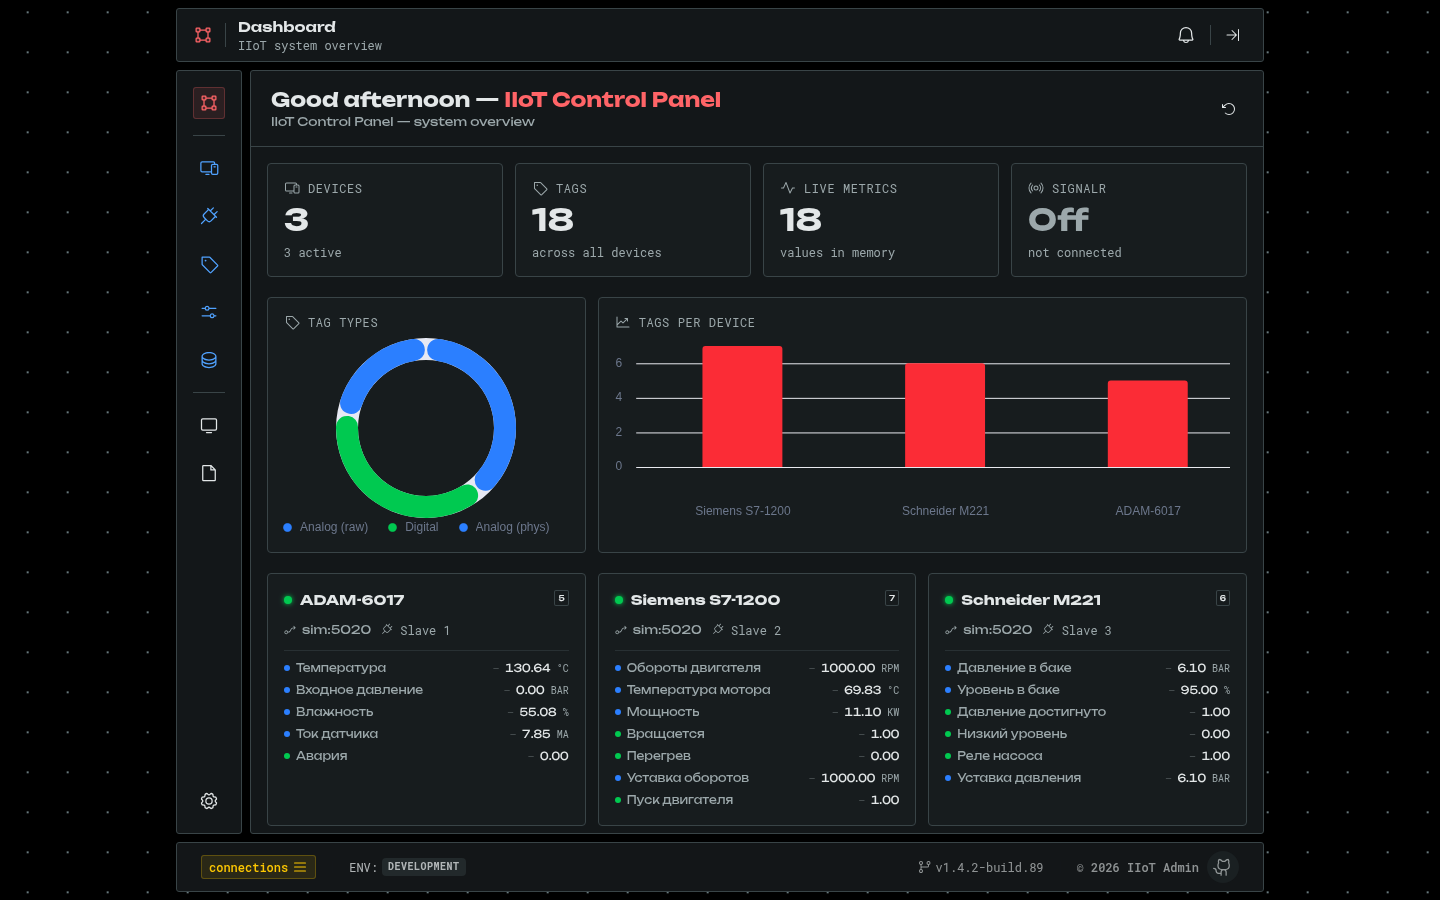
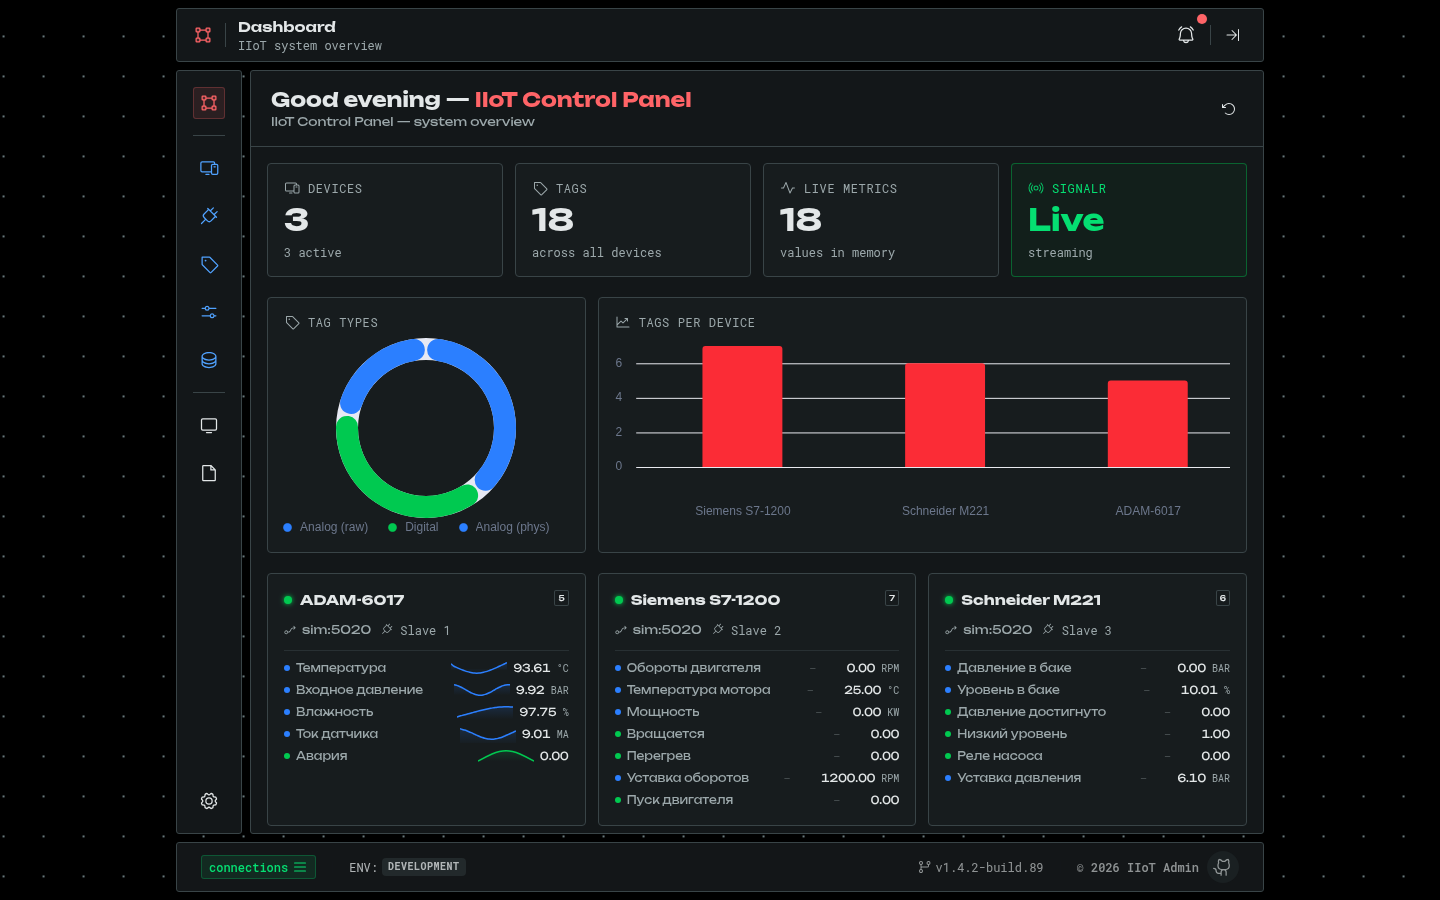
fix(dashboard): keep tag sparklines inside their column
Sparkline root had w-full merged with w-14 from the call site; inside a
shrink-0 flex item the chart took the wrong width and overflowed over tag
names. Width now comes from a wrapper and the sparkline clips overflow.
Retake dashboard screenshot with live SignalR stream.

diff --git a/app/pages/index.vue b/app/pages/index.vue
@@ -318,13 +318,14 @@ const greeting = computed(() => {
                 </span>
               </div>
               <div class="flex items-center gap-1.5 shrink-0">
-                <ChartsSparkline
-                  v-if="tag.tagId != null"
-                  :values="rt.getTrend(tag.tagId)"
-                  :color="tagColor(tag.dataType)"
-                  :height="18"
-                  class="w-14"
-                />
+                <!-- Фиксированная ширина задаётся обёрткой: внутри shrink-0 у графика нет своей ширины -->
+                <div v-if="tag.tagId != null" class="w-14 shrink-0">
+                  <ChartsSparkline
+                    :values="rt.getTrend(tag.tagId)"
+                    :color="tagColor(tag.dataType)"
+                    :height="18"
+                  />
+                </div>
                 <span
                   class="text-[11px] font-mono tabular-nums"
                   :class="

diff --git a/app/components/charts/Sparkline.vue b/app/components/charts/Sparkline.vue
@@ -52,7 +52,7 @@ const PAD = { top: 2, right: 0, bottom: 2, left: 0 };
 </script>
 
 <template>
-  <div class="w-full" :style="{ height: `${height}px` }">
+  <div class="w-full min-w-0 overflow-hidden" :style="{ height: `${height}px` }">
     <AreaChart
       v-if="data.length > 1"
       :data="data"
